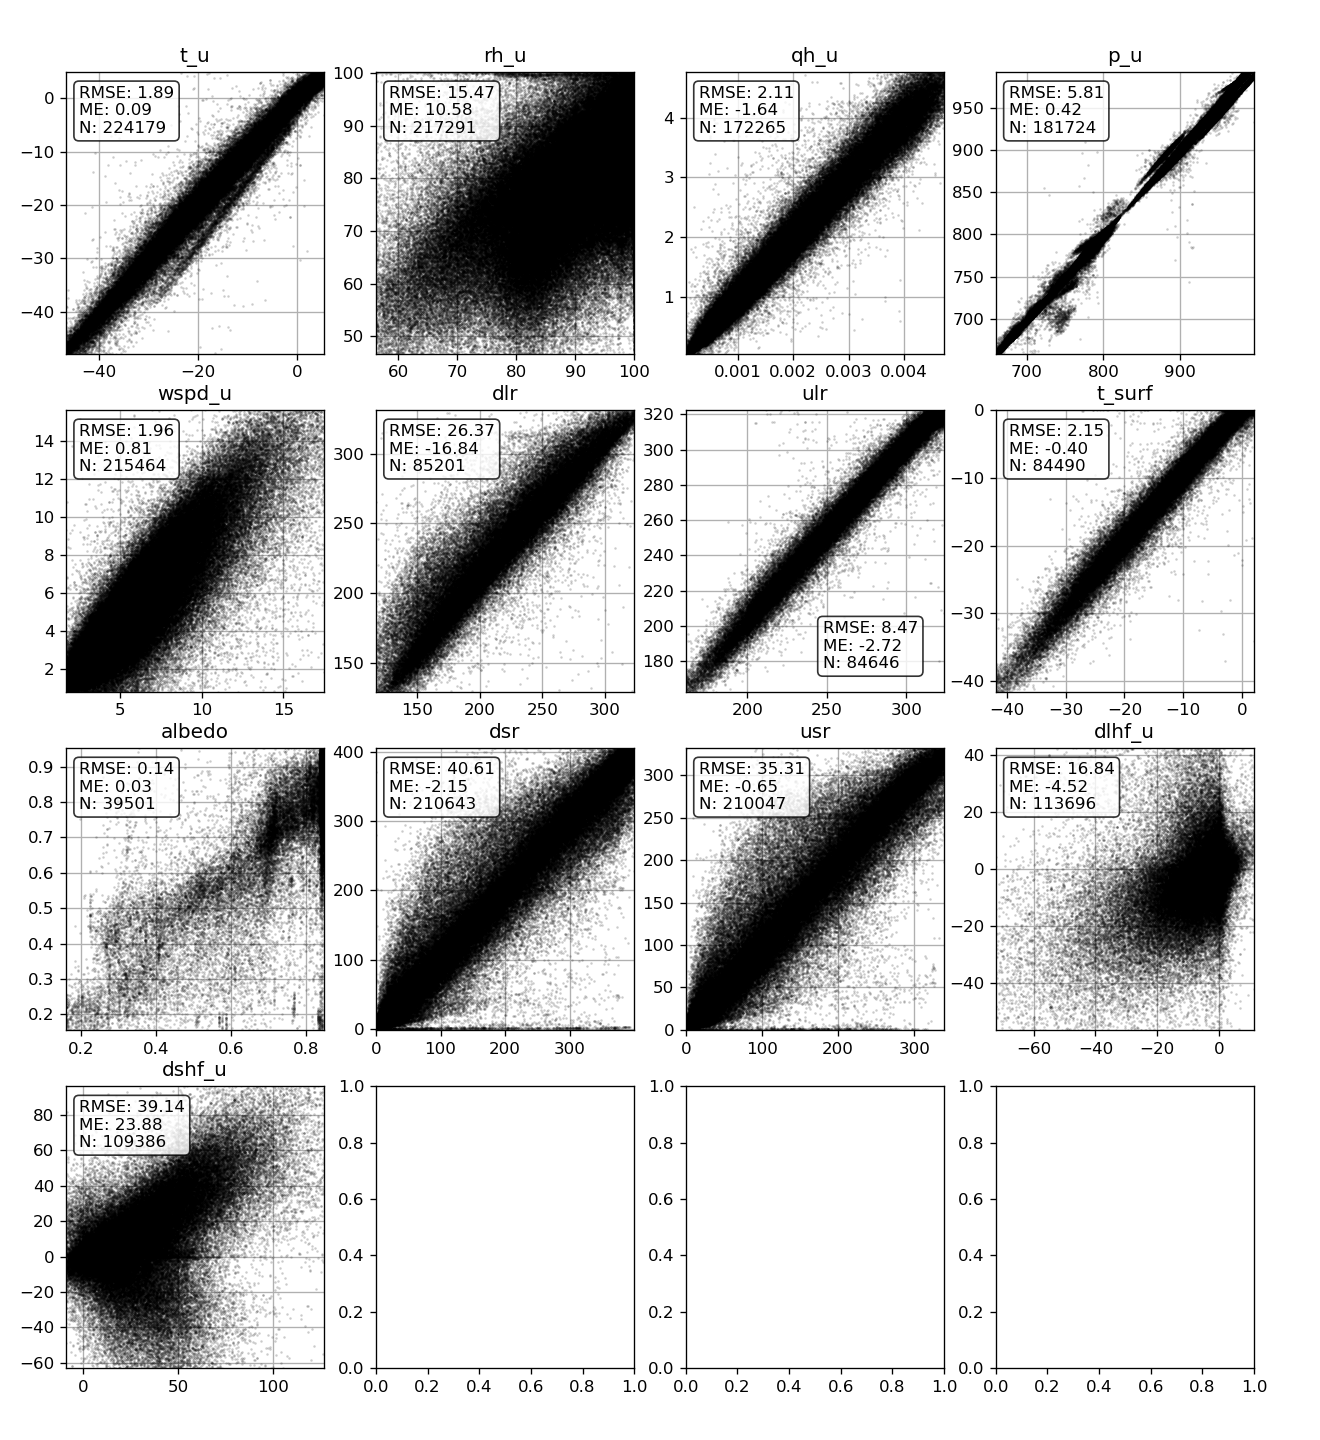
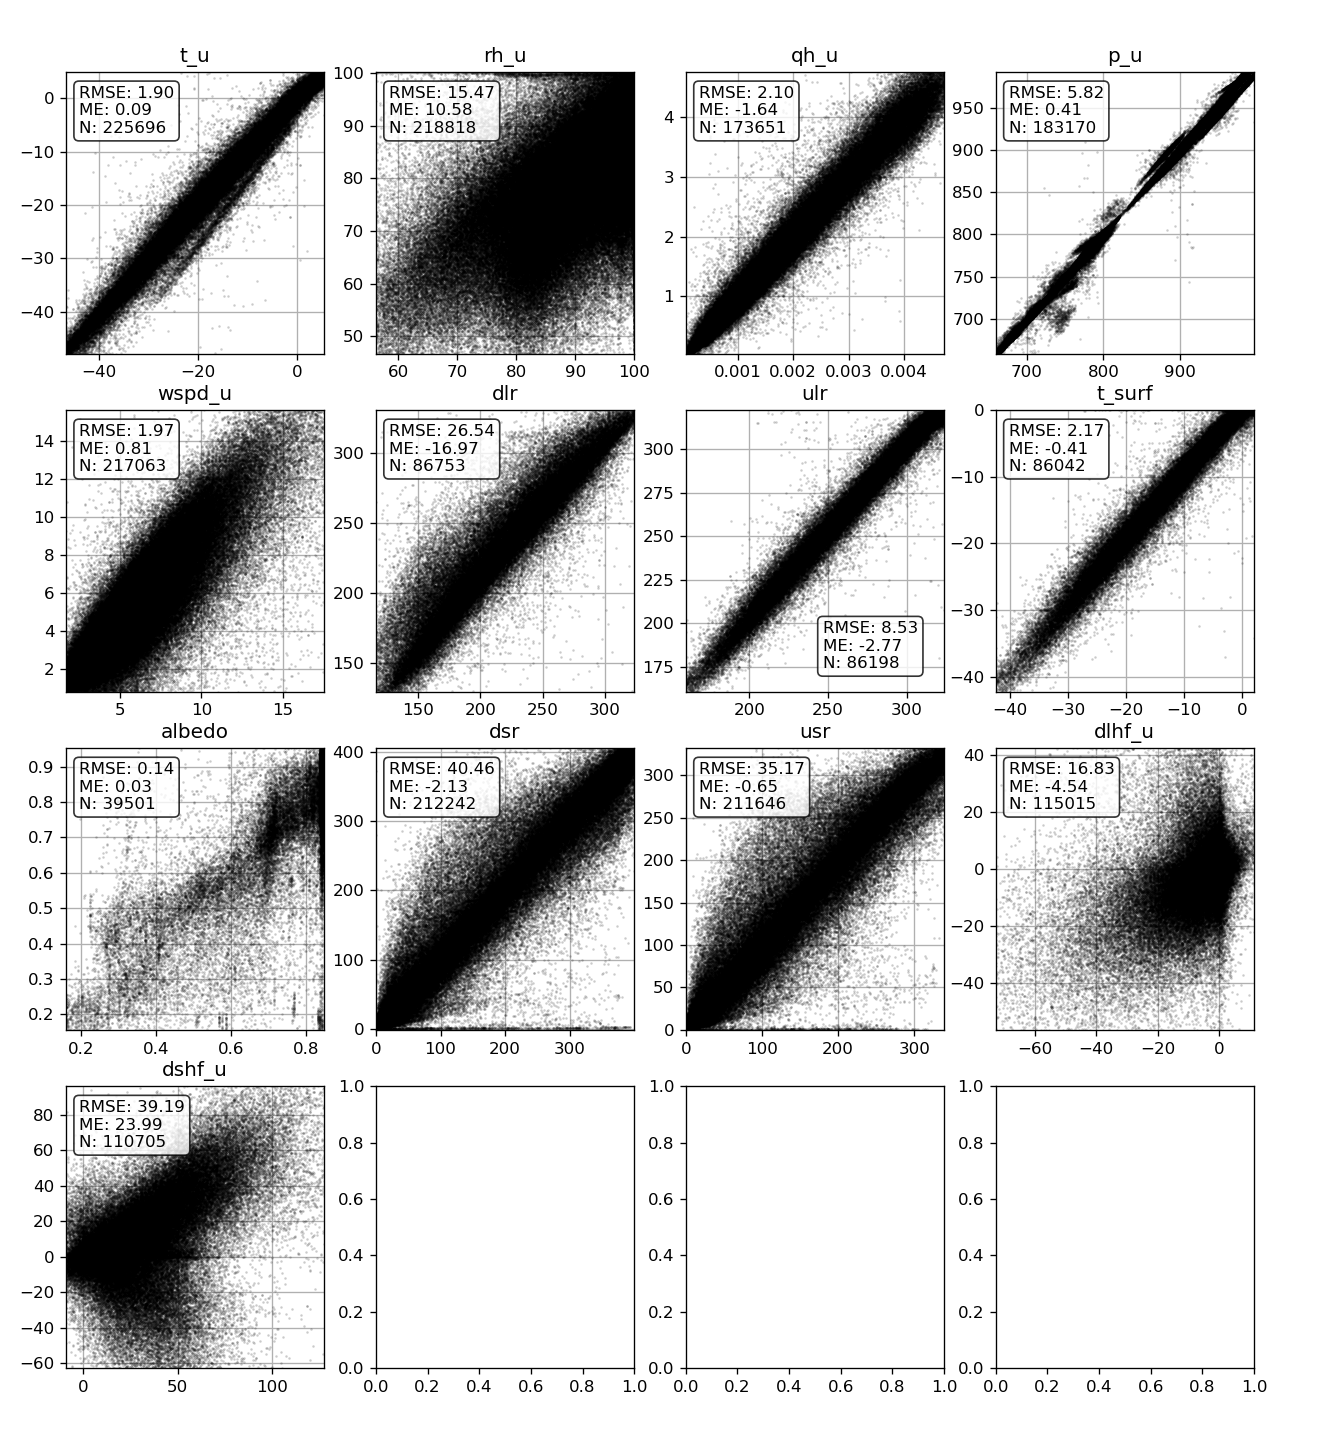
new scatters with CARRA_at_AWS_20240306

diff --git a/CARRA_evaluation_AWS_scatter.py b/CARRA_evaluation_AWS_scatter.py
@@ -76,7 +76,7 @@ fig_folder = 'figures/CARRA_vs_AWS/'
 variables = ['t_u', 'rh_u','rh_u_cor', 'qh_u','p_u', 'wspd_u','dlr', 'ulr',
             't_surf',  'albedo', 'dsr', 'dsr_cor',  'usr',  'usr_cor','dlhf_u','dshf_u']
 
-ds_carra = xr.open_dataset("./data/CARRA_at_AWS_20240130.nc")
+ds_carra = xr.open_dataset("./data/CARRA_at_AWS_20240306.nc")
 
 ds_aws = xr.open_dataset("./data/AWS_compilation.nc")
 df_aws_all = ds_aws.to_dataframe().reset_index()
